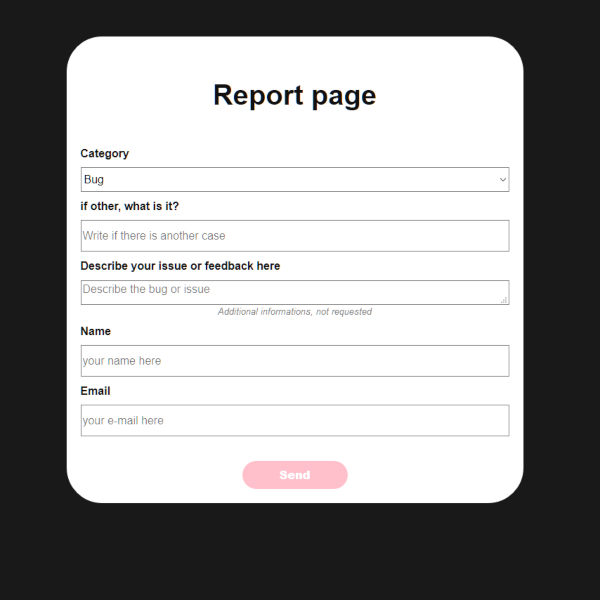
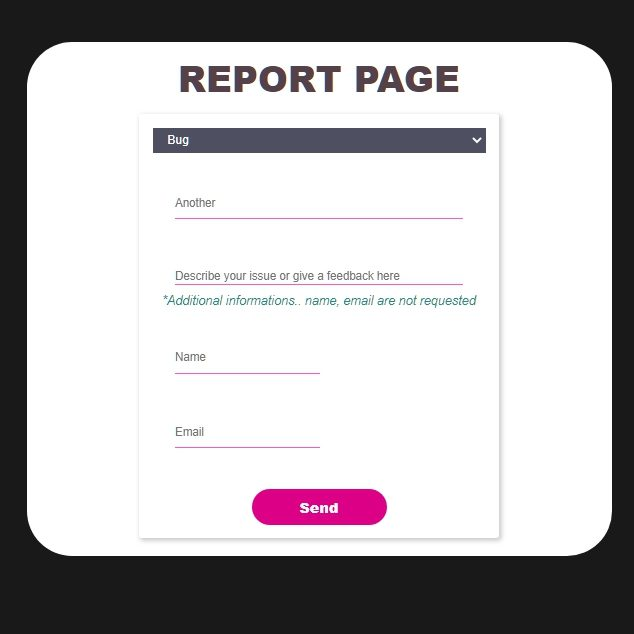
update

Changed region(s): [[0.03, 0.06, 0.99, 0.9]]

diff --git a/.history/portfolio/api/01/js/report_20201022211348.js b/.history/portfolio/api/01/js/report_20201022211348.js
@@ -1,0 +1,44 @@
+//reportJS by Robert Michalski
+
+function report() {
+    var reportWindow = document.getElementById("reportWindow");
+    var pageName = window.location.pathname;
+
+      var codeBlock = `
+      <div class="report__base" id="myReport">
+      <span id="close" onclick="showOld()">&times;</span>
+      <div class="report__content" id="report01">
+      <h3>Report page</h3>
+      <form method="post" action="https://saro.website/report.php" class="report__form">
+      <input name="page" id="page" value="${pageName}" style="display: none;">
+      <input name="lang" id="lang" value="English" style="display: none;">
+      <label for="category">Category</label>
+      <select name="category" id="category" required>
+      <option value="Bug">Bug</option>
+      <option value="Page does not work">Page does not work</option>
+      <option value="Problem with displying">Page displays incorrectly</option>
+      <option value="other">Other</option></select>
+      <label for="other">if other, what is it?</label>
+      <input type="text" name="other" id="other" class="issue" placeholder="Write if there is another case">
+      <label for="describe">Describe your issue or feedback here</label>
+      <textarea name="describe" id="describe" cols="30" rows="10" placeholder="Describe the bug or issue" required></textarea>
+      <br>
+      <i>Additional informations, not requested</i> <br>
+      <div class="form__label__left">
+      <label for="name">Name</label>
+      <input type="text" name="name" id="name" class="issue" placeholder="your name here">
+      <label for="name">Email</label>
+      <input type="email" name="email" id="email" class="issue" placeholder="your e-mail here">
+      <input type="submit" class="button__black" value="Send">
+      </form>
+      </div>
+      </div>
+      </div>`;
+
+      reportWindow.innerHTML = codeBlock;
+
+  }
+
+  function showOld() {
+    document.getElementById("myReport").style.display = "none";
+}

diff --git a/.history/portfolio/api/01/js/report_20201108232215.js b/.history/portfolio/api/01/js/report_20201108232215.js
@@ -2,22 +2,25 @@
 
 function report() {
     var reportWindow = document.getElementById("reportWindow");
+    var pageName = window.location.pathname;
 
     var codeBlock = `
     <div class="report__base" id="myReport">
     <span id="close" onclick="showOld()">&times;</span>
     <div class="report__content" id="report01">
     <h3>Report page</h3>
-    <form method="post" action="./report.php" class="report__form">
+    <form method="post" action="https://saro.website/report.php" class="report__form">
+    <input name="language" id="language" value="${language[i].lang}" style="display: none;">
+    <input name="page" id="page" value="${pageName}" style="display: none;">
     <input name="lang" id="lang" value="English" style="display: none;">
     <select name="category" id="category" required>
     <option value="Bug">Bug</option>
     <option value="Page does not work">Page does not work</option>
     <option value="Problem with displying">Page displays incorrectly</option>
     <option value="other">Other</option></select>
-    <input type="text" name="other" id="other" class="issue" placeholder="Another">
-    <textarea name="describe" id="describe" cols="30" rows="10" placeholder="Describe your issue or give a feedback here" required></textarea>
-    <i>*Additional informations.. name, email are not requested</i>
+    <input type="text" name="other" id="other" class="issue" placeholder="if other, what is it?">
+    <textarea name="describe" id="describe" cols="30" rows="10" placeholder="Describe your issue or feedback here" required></textarea>
+    <i>*Additional informations name, email are not requested</i>
     <div class="form__label__left">
     <input type="text" name="name" id="name" class="issue" placeholder="Name">
     <input type="email" name="email" id="email" class="issue" placeholder="Email">

diff --git a/.history/portfolio/api/01/js/report_20201108232251.js b/.history/portfolio/api/01/js/report_20201108232251.js
@@ -2,13 +2,16 @@
 
 function report() {
     var reportWindow = document.getElementById("reportWindow");
+    var pageName = window.location.pathname;
 
     var codeBlock = `
     <div class="report__base" id="myReport">
     <span id="close" onclick="showOld()">&times;</span>
     <div class="report__content" id="report01">
     <h3>Report page</h3>
-    <form method="post" action="./report.php" class="report__form">
+    <form method="post" action="https://saro.website/report.php" class="report__form">
+    <input name="language" id="language" value="${language[i].lang}" style="display: none;">
+    <input name="page" id="page" value="${pageName}" style="display: none;">
     <input name="lang" id="lang" value="English" style="display: none;">
     <select name="category" id="category" required>
     <option value="Bug">Bug</option>
@@ -16,8 +19,8 @@ function report() {
     <option value="Problem with displying">Page displays incorrectly</option>
     <option value="other">Other</option></select>
     <input type="text" name="other" id="other" class="issue" placeholder="Another">
-    <textarea name="describe" id="describe" cols="30" rows="10" placeholder="Describe your issue or give a feedback here" required></textarea>
-    <i>*Additional informations.. name, email are not requested</i>
+    <textarea name="describe" id="describe" cols="30" rows="10" placeholder="Describe your issue or feedback here" required></textarea>
+    <i>*Additional informations name, email are not requested</i>
     <div class="form__label__left">
     <input type="text" name="name" id="name" class="issue" placeholder="Name">
     <input type="email" name="email" id="email" class="issue" placeholder="Email">

diff --git a/.history/portfolio/api/01/js/report_20201108232300.js b/.history/portfolio/api/01/js/report_20201108232300.js
@@ -2,13 +2,16 @@
 
 function report() {
     var reportWindow = document.getElementById("reportWindow");
+    var pageName = window.location.pathname;
 
     var codeBlock = `
     <div class="report__base" id="myReport">
     <span id="close" onclick="showOld()">&times;</span>
     <div class="report__content" id="report01">
     <h3>Report page</h3>
-    <form method="post" action="./report.php" class="report__form">
+    <form method="post" action="https://saro.website/report.php" class="report__form">
+    <input name="language" id="language" value="${language[i].lang}" style="display: none;">
+    <input name="page" id="page" value="${pageName}" style="display: none;">
     <input name="lang" id="lang" value="English" style="display: none;">
     <select name="category" id="category" required>
     <option value="Bug">Bug</option>
@@ -16,7 +19,7 @@ function report() {
     <option value="Problem with displying">Page displays incorrectly</option>
     <option value="other">Other</option></select>
     <input type="text" name="other" id="other" class="issue" placeholder="Another">
-    <textarea name="describe" id="describe" cols="30" rows="10" placeholder="Describe your issue or give a feedback here" required></textarea>
+    <textarea name="describe" id="describe" cols="30" rows="10" placeholder="Describe your issue or feedback here" required></textarea>
     <i>*Additional informations.. name, email are not requested</i>
     <div class="form__label__left">
     <input type="text" name="name" id="name" class="issue" placeholder="Name">

diff --git a/.history/portfolio/api/01/js/report_20201108232357.js b/.history/portfolio/api/01/js/report_20201108232357.js
@@ -2,6 +2,7 @@
 
 function report() {
     var reportWindow = document.getElementById("reportWindow");
+    var pageName = window.location.pathname;
 
     var codeBlock = `
     <div class="report__base" id="myReport">
@@ -9,6 +10,8 @@ function report() {
     <div class="report__content" id="report01">
     <h3>Report page</h3>
     <form method="post" action="./report.php" class="report__form">
+    <input name="language" id="language" value="${language[i].lang}" style="display: none;">
+    <input name="page" id="page" value="${pageName}" style="display: none;">
     <input name="lang" id="lang" value="English" style="display: none;">
     <select name="category" id="category" required>
     <option value="Bug">Bug</option>
@@ -16,7 +19,7 @@ function report() {
     <option value="Problem with displying">Page displays incorrectly</option>
     <option value="other">Other</option></select>
     <input type="text" name="other" id="other" class="issue" placeholder="Another">
-    <textarea name="describe" id="describe" cols="30" rows="10" placeholder="Describe your issue or give a feedback here" required></textarea>
+    <textarea name="describe" id="describe" cols="30" rows="10" placeholder="Describe your issue or feedback here" required></textarea>
     <i>*Additional informations.. name, email are not requested</i>
     <div class="form__label__left">
     <input type="text" name="name" id="name" class="issue" placeholder="Name">

diff --git a/.history/portfolio/api/01/js/report_20201108232422.js b/.history/portfolio/api/01/js/report_20201108232422.js
@@ -2,6 +2,7 @@
 
 function report() {
     var reportWindow = document.getElementById("reportWindow");
+    var pageName = window.location.pathname;
 
     var codeBlock = `
     <div class="report__base" id="myReport">
@@ -16,7 +17,7 @@ function report() {
     <option value="Problem with displying">Page displays incorrectly</option>
     <option value="other">Other</option></select>
     <input type="text" name="other" id="other" class="issue" placeholder="Another">
-    <textarea name="describe" id="describe" cols="30" rows="10" placeholder="Describe your issue or give a feedback here" required></textarea>
+    <textarea name="describe" id="describe" cols="30" rows="10" placeholder="Describe your issue or feedback here" required></textarea>
     <i>*Additional informations.. name, email are not requested</i>
     <div class="form__label__left">
     <input type="text" name="name" id="name" class="issue" placeholder="Name">

diff --git a/.history/portfolio/api/01/js/report_20201108232426.js b/.history/portfolio/api/01/js/report_20201108232426.js
@@ -16,7 +16,7 @@ function report() {
     <option value="Problem with displying">Page displays incorrectly</option>
     <option value="other">Other</option></select>
     <input type="text" name="other" id="other" class="issue" placeholder="Another">
-    <textarea name="describe" id="describe" cols="30" rows="10" placeholder="Describe your issue or give a feedback here" required></textarea>
+    <textarea name="describe" id="describe" cols="30" rows="10" placeholder="Describe your issue or feedback here" required></textarea>
     <i>*Additional informations.. name, email are not requested</i>
     <div class="form__label__left">
     <input type="text" name="name" id="name" class="issue" placeholder="Name">
